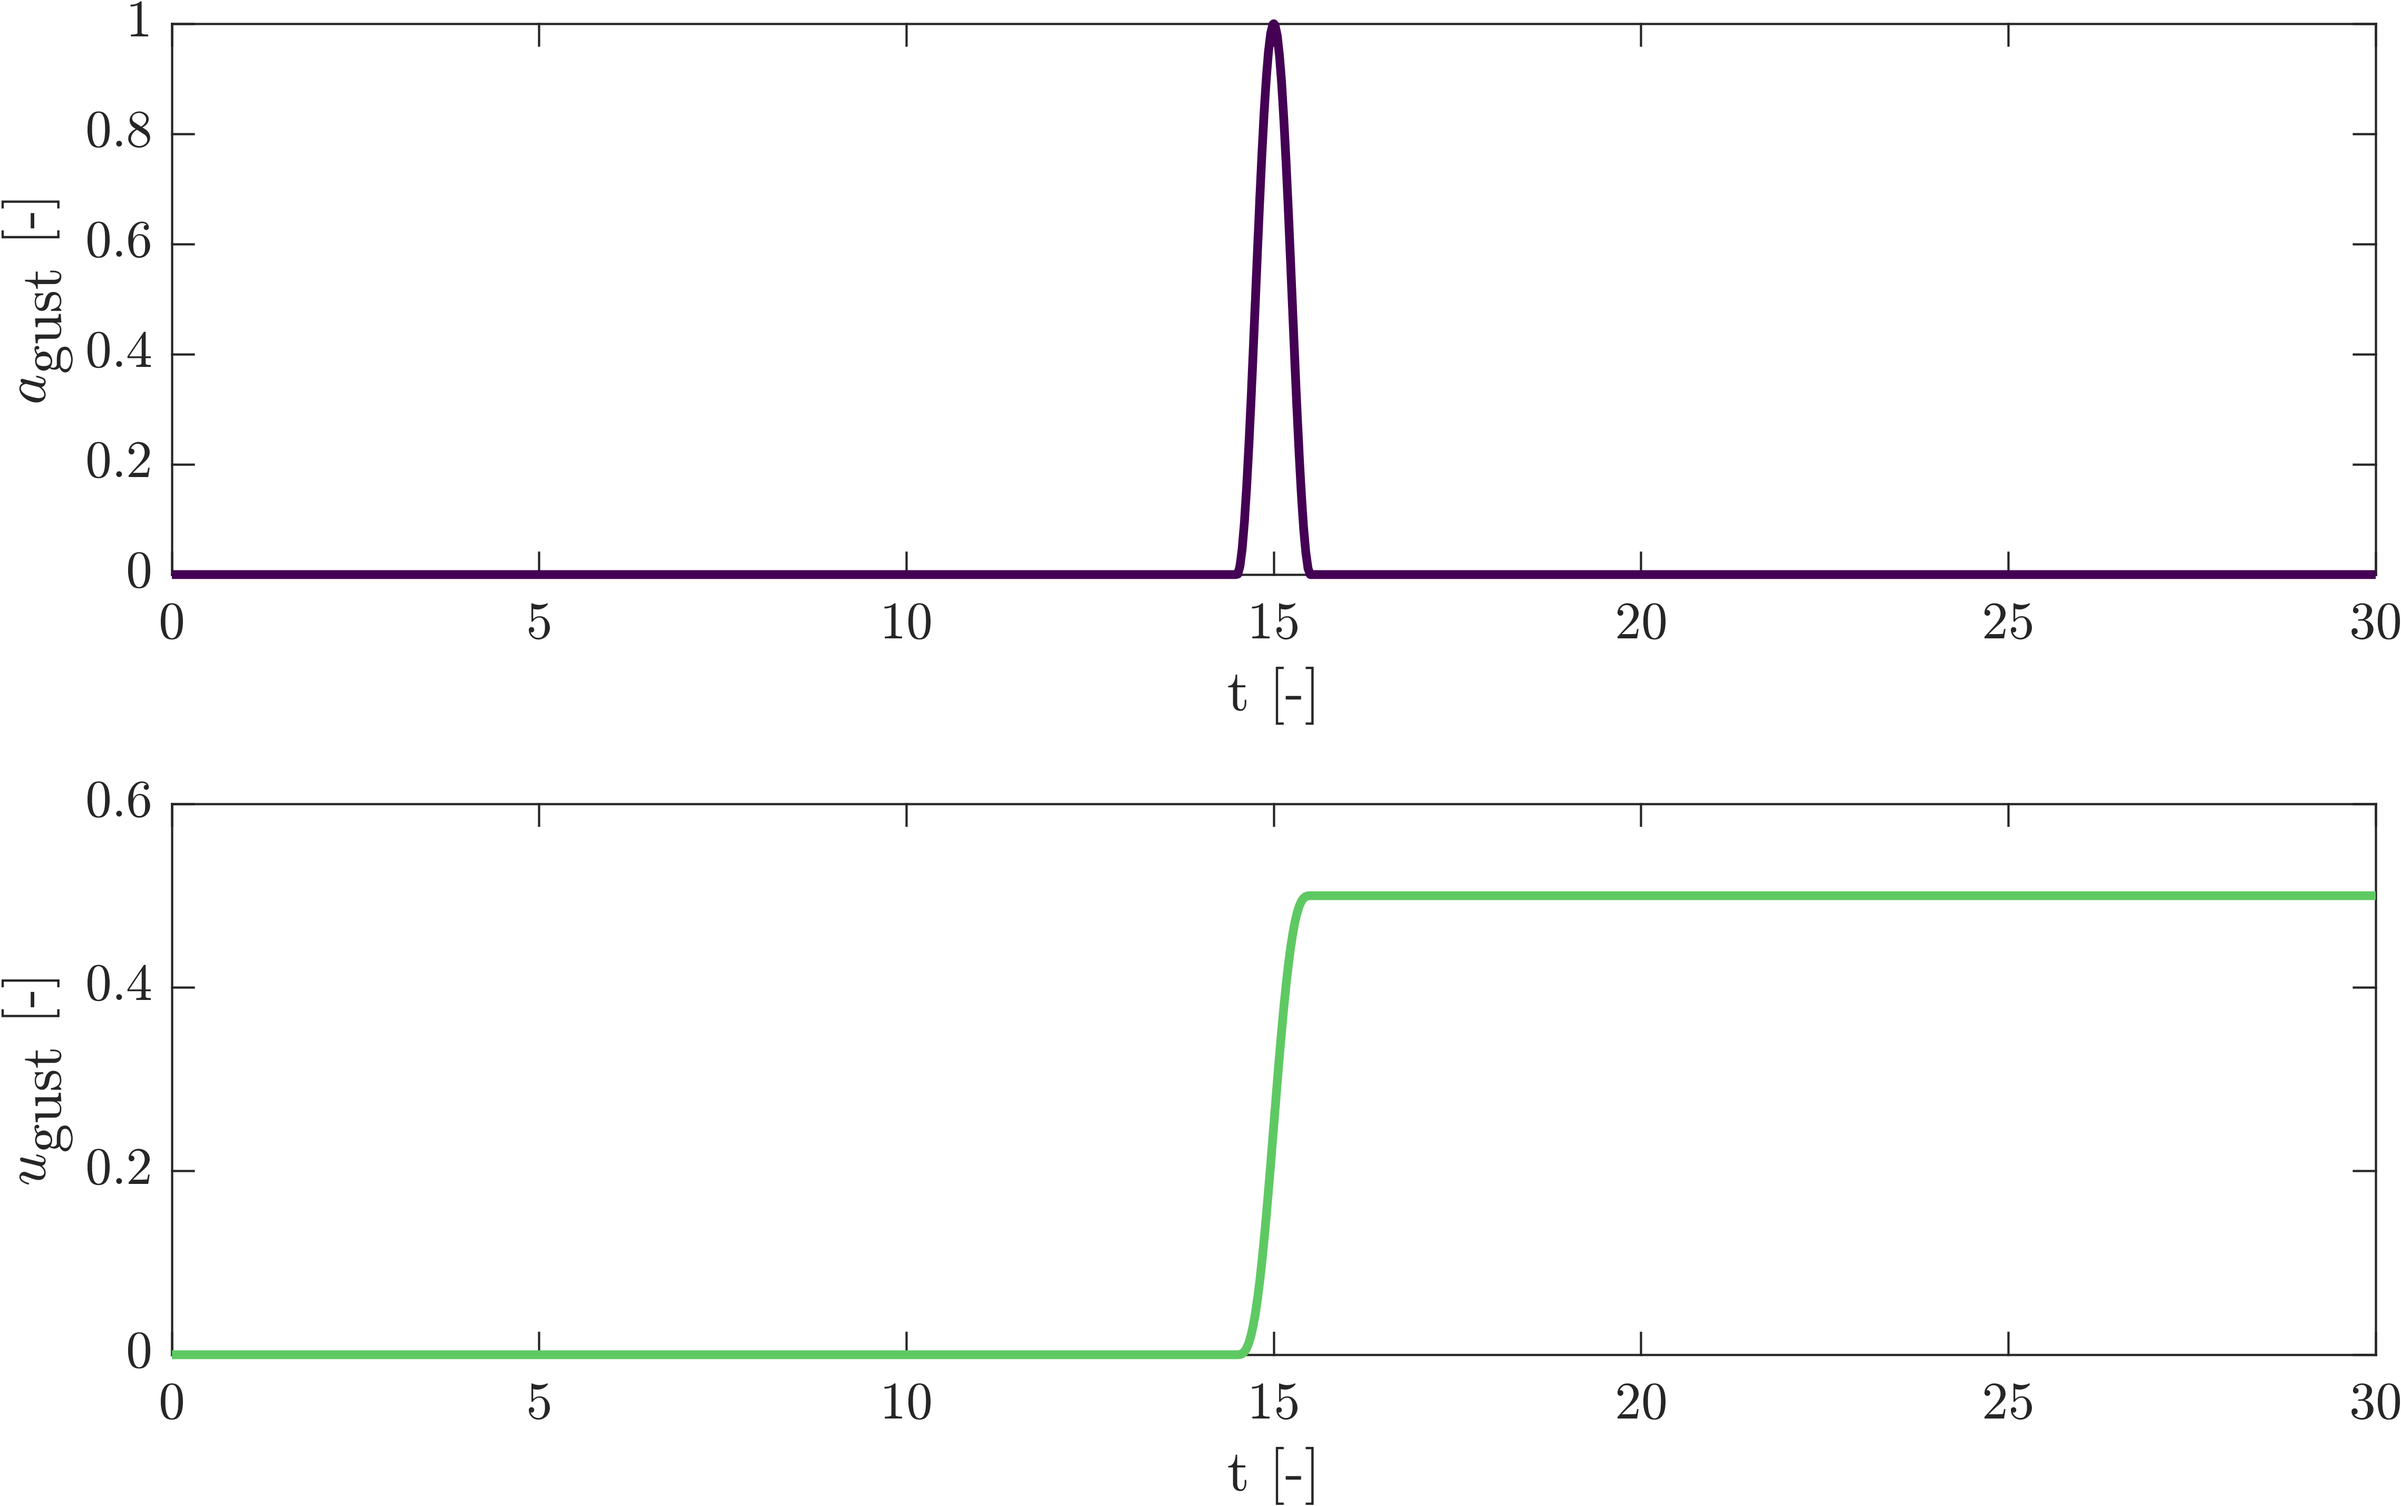
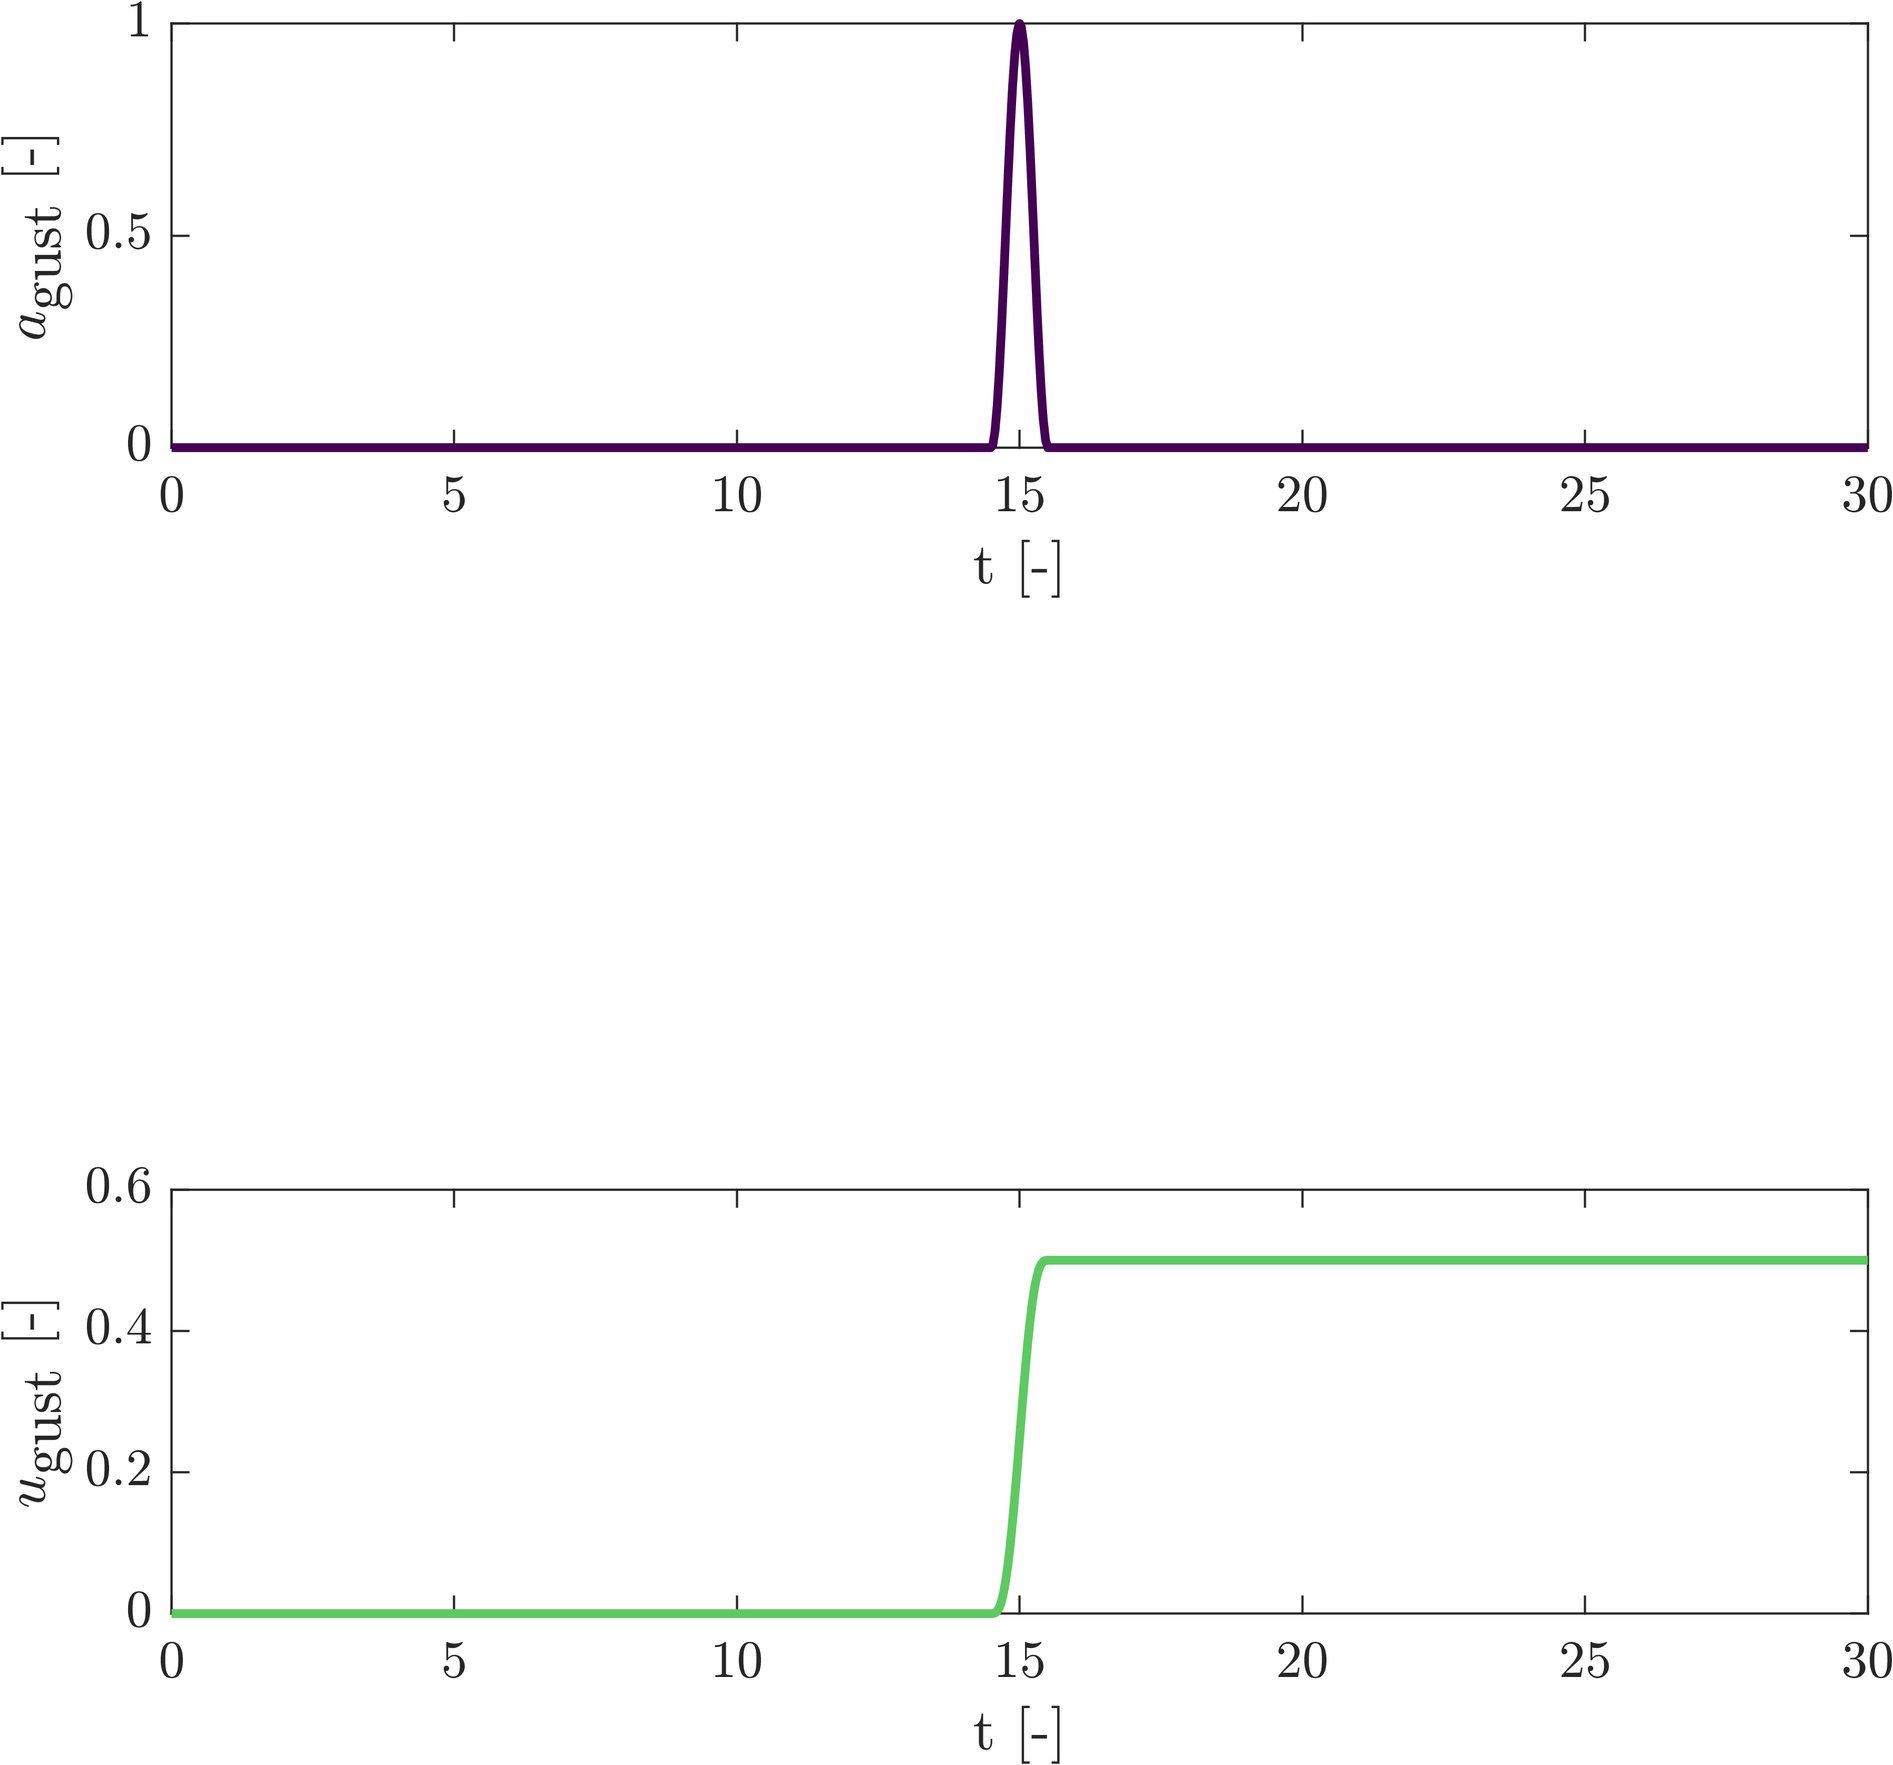
updates to gust model, still not working

diff --git a/Chornormal_Li_Model/Run_Li_Model_correct.m b/Chornormal_Li_Model/Run_Li_Model_correct.m
@@ -88,10 +88,11 @@ function [tSol2,ySol2] = test_gust(ratio)
         [T, Y] = ode45(@(t,y) nondimfreelyfallingplate(y,e_x), t_span, y_current, odeset('MaxStep',dt, 'InitialStep', dt, 'Refine', 1));
         t_current = T(end);
         if gust
-            added_accel = -ratio * 0.5 * (cos((2*pi*t_current))+1).*heaviside(t_current-14.5).*heaviside(-t_current+15.5);
+            % added_vel = -ratio * 0.5 * (cos((2*pi*t_current))+1).*heaviside(t_current-14.5).*heaviside(-t_current+15.5);
+            added_vel = -ratio * ((1/(2*pi)*sin(2*pi*t_current)+t_current-14.5).*(heaviside(t_current-14.5)).*(heaviside(-t_current+15.5))+(heaviside(t_current-15.5)));
             % added_accel = -ratio * 0.5 * max( (cos((2*pi*t_current)/1)+1).*heaviside(t_current-14.5),2*heaviside(t_current-15));
 
-            Y(end, 1) = Y(end, 1) + added_accel;
+            Y(end, 1) = Y(end, 1) + added_vel;
         end
         
         y_current = Y(end, :);
@@ -241,7 +242,7 @@ function dydt = nondimfreelyfallingplate(y,u)
     y_ = y(6);
 
     p = [0.070000000000000;3.247200000000000e-04;1.225000000000000;0.033750000000000;5.000000000000000e-04;0.174500000000000];
-    l = 1;
+    l = 0.1;
     m = p(2);
     rho_f = p(3);
     a = p(4);
